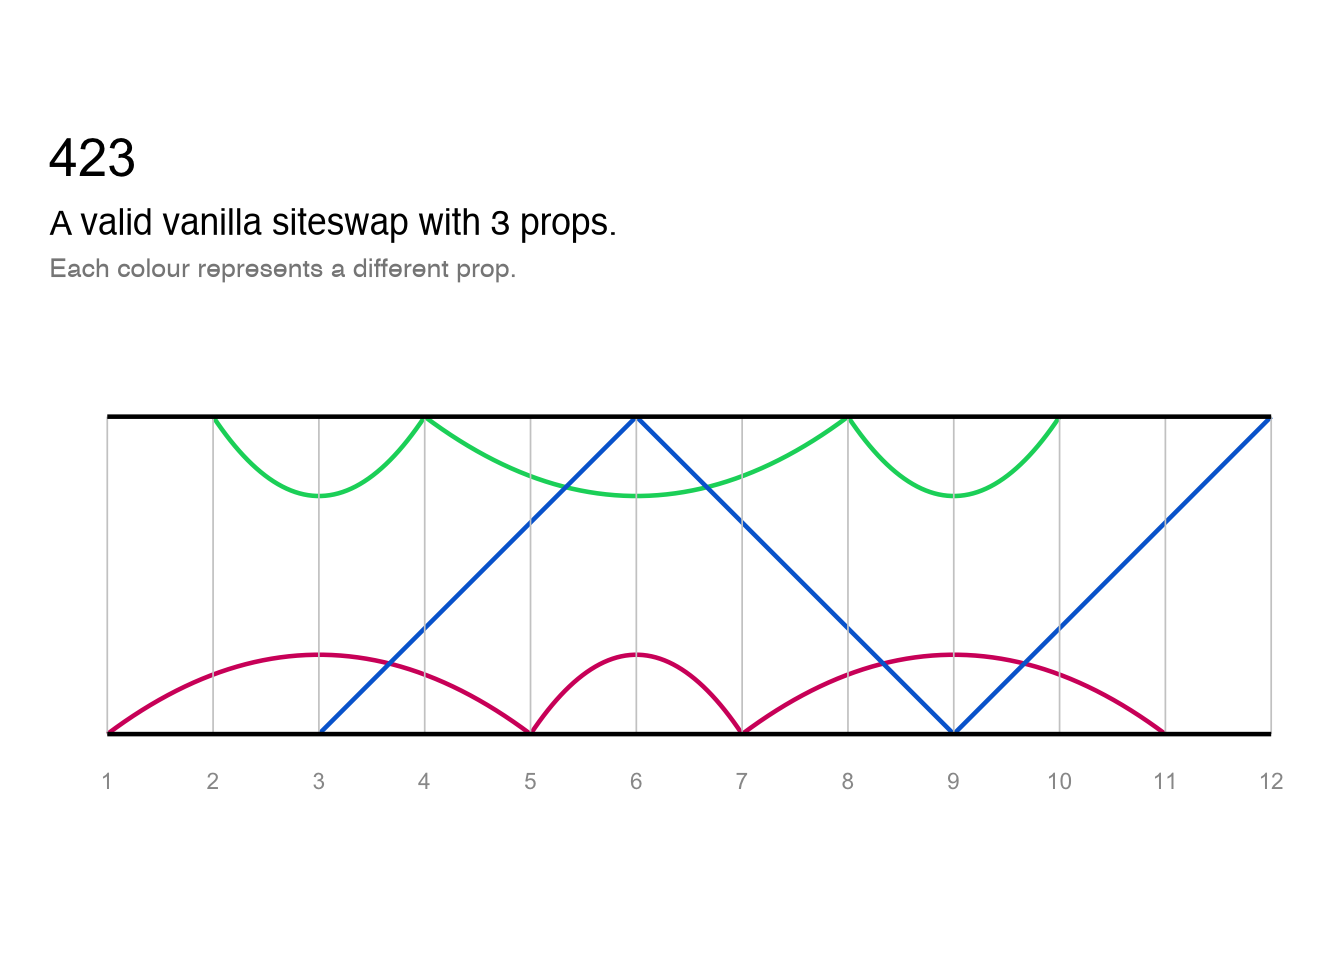
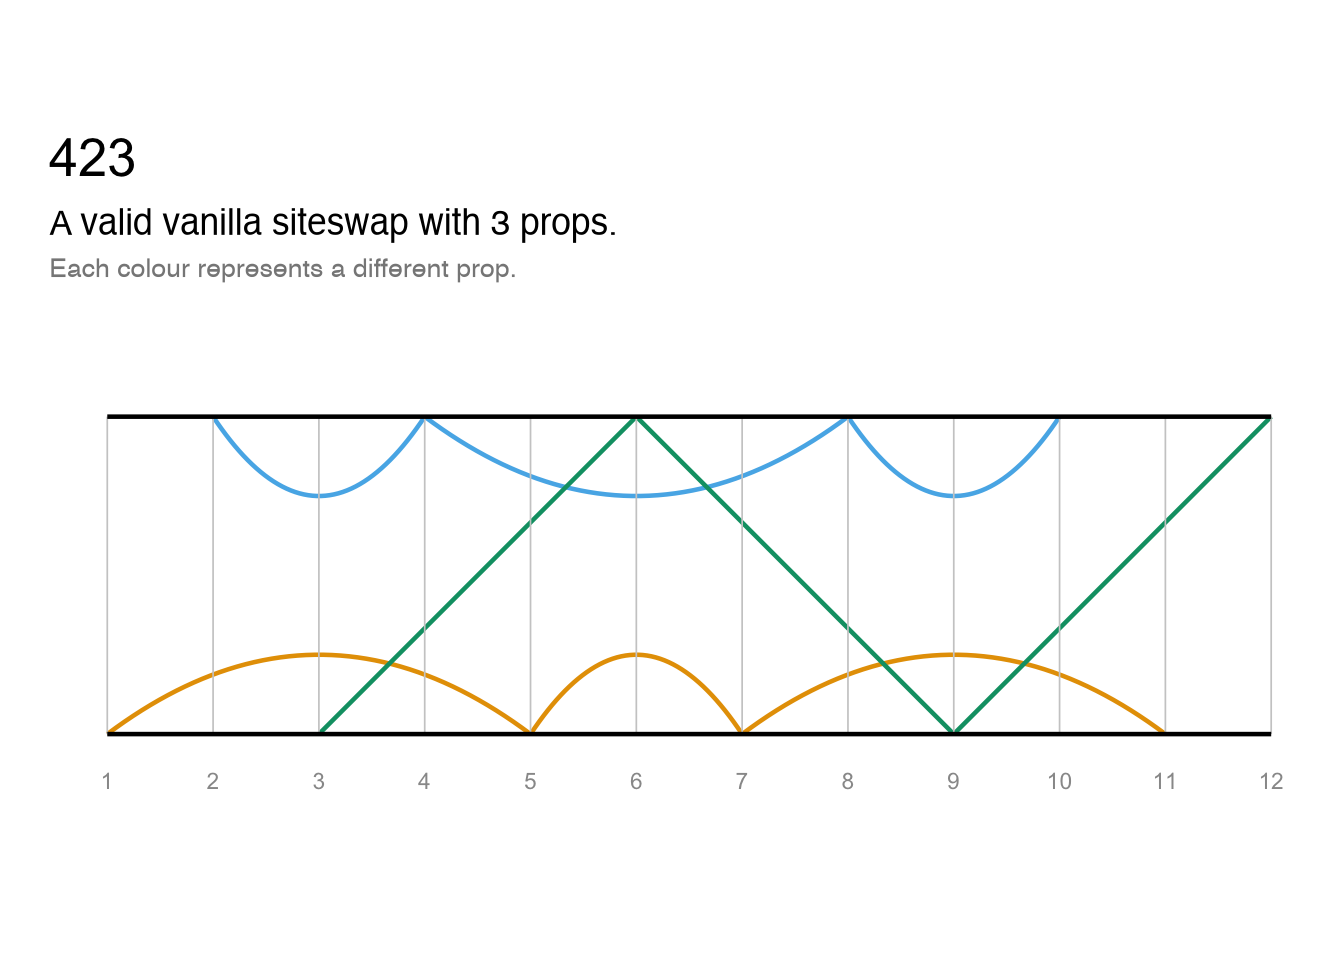
Deploying to gh-pages from @ EllaKaye/jugglr@668299e469104df9554b92e2565a156c42950b1f 🚀

diff --git a/index.html b/index.html
@@ -59,7 +59,7 @@
 <div class="section level2">
 <h2 id="installation">Installation<a class="anchor" aria-label="anchor" href="#installation"></a>
 </h2>
-<p>You can install the development version of jugglr from <a href="https://github.com/" class="external-link">GitHub</a> with:</p>
+<p>You can install the development version of jugglr from <a href="https://github.com/EllaKaye/jugglr" class="external-link">GitHub</a> with:</p>
 <div class="sourceCode" id="cb1"><pre class="downlit sourceCode r">
 <code class="sourceCode R"><span><span class="co"># install.packages("pak")</span></span>
 <span><span class="fu">pak</span><span class="fu">::</span><span class="fu"><a href="https://pak.r-lib.org/reference/pak.html" class="external-link">pak</a></span><span class="op">(</span><span class="st">"EllaKaye/jugglr"</span><span class="op">)</span></span></code></pre></div>
@@ -98,17 +98,10 @@
 </h3>
 <p>These functions take <code>Siteswap</code> objects as their argument and return ggplot2 plots, so can be further customised.</p>
 <div class="sourceCode" id="cb4"><pre class="downlit sourceCode r">
-<code class="sourceCode R"><span><span class="va">palette</span> <span class="op">&lt;-</span> <span class="fu"><a href="https://rdrr.io/r/base/c.html" class="external-link">c</a></span><span class="op">(</span><span class="st">"#D4006A"</span>, <span class="st">"#00D46A"</span>, <span class="st">"#006AD4"</span><span class="op">)</span></span>
-<span><span class="fu"><a href="reference/timeline.html">timeline</a></span><span class="op">(</span><span class="va">ss423</span><span class="op">)</span> <span class="op">+</span></span>
-<span>  <span class="fu">ggplot2</span><span class="fu">::</span><span class="fu"><a href="https://ggplot2.tidyverse.org/reference/scale_manual.html" class="external-link">scale_color_manual</a></span><span class="op">(</span>values <span class="op">=</span> <span class="va">palette</span><span class="op">)</span></span>
-<span><span class="co">#&gt; Scale for colour is already present.</span></span>
-<span><span class="co">#&gt; Adding another scale for colour, which will replace the existing scale.</span></span></code></pre></div>
+<code class="sourceCode R"><span><span class="fu"><a href="reference/timeline.html">timeline</a></span><span class="op">(</span><span class="va">ss423</span><span class="op">)</span></span></code></pre></div>
 <p><img src="reference/figures/README-unnamed-chunk-3-1.png" alt="" width="100%"></p>
 <div class="sourceCode" id="cb5"><pre class="downlit sourceCode r">
-<code class="sourceCode R"><span><span class="fu"><a href="reference/ladder.html">ladder</a></span><span class="op">(</span><span class="va">ss423</span><span class="op">)</span> <span class="op">+</span></span>
-<span>  <span class="fu">ggplot2</span><span class="fu">::</span><span class="fu"><a href="https://ggplot2.tidyverse.org/reference/scale_manual.html" class="external-link">scale_color_manual</a></span><span class="op">(</span>values <span class="op">=</span> <span class="va">palette</span><span class="op">)</span></span>
-<span><span class="co">#&gt; Scale for colour is already present.</span></span>
-<span><span class="co">#&gt; Adding another scale for colour, which will replace the existing scale.</span></span></code></pre></div>
+<code class="sourceCode R"><span><span class="fu"><a href="reference/ladder.html">ladder</a></span><span class="op">(</span><span class="va">ss423</span><span class="op">)</span></span></code></pre></div>
 <p><img src="reference/figures/README-unnamed-chunk-4-1.png" alt="" width="100%"></p>
 <p>These plots are also useful for understand why non-valid sequences are not jugglable. We can see, for example, where two props would need to be caught at the same time (which is not permissible in vanilla siteswap). Because each prop is shown in a different colour, we can see where balls are disappearing or needing suddenly to appear.</p>
 <div class="sourceCode" id="cb6"><pre class="downlit sourceCode r">
@@ -125,8 +118,12 @@
 <p>If called in Positron or RStudio, <code><a href="reference/animate.html">animate()</a></code> will show the animation in the Viewer pane, otherwise in the browser. If a <code>path</code> argument is supplied, the animation will be saved to that location instead. Note that it can take several seconds for the animation to render.</p>
 <p>For embedding in RMarkdown or quarto documents, there is a wrapper, <code><a href="reference/animate.html">animate_markdown()</a></code>, which calls <code><a href="https://rdrr.io/pkg/knitr/man/include_graphics.html" class="external-link">knitr::include_graphics()</a></code>, and display options can be set as chunk arguments (e.g. for the output below, <code>out.width="40%")</code>:</p>
 <div class="sourceCode" id="cb8"><pre class="downlit sourceCode r">
-<code class="sourceCode R"><span><span class="fu"><a href="reference/animate.html">animate_markdown</a></span><span class="op">(</span><span class="st">"423"</span>, <span class="st">"man/figures/423-animation.gif"</span>, colors <span class="op">=</span> <span class="va">palette</span><span class="op">)</span></span>
-<span><span class="co">#&gt; ✔ Animation saved to: 'man/figures/423-animation.gif'</span></span></code></pre></div>
+<code class="sourceCode R"><span><span class="fu"><a href="reference/animate.html">animate_markdown</a></span><span class="op">(</span></span>
+<span>  <span class="st">"423"</span>, </span>
+<span>  path <span class="op">=</span> <span class="st">"man/figures/423-animation.gif"</span>, </span>
+<span>  colors <span class="op">=</span> <span class="fu"><a href="https://rdrr.io/r/base/c.html" class="external-link">c</a></span><span class="op">(</span><span class="st">"#E69F00"</span>, <span class="st">"#56B4E9"</span>, <span class="st">"#009E73"</span><span class="op">)</span></span>
+<span>  <span class="op">)</span></span>
+<span><span class="co">#&gt; ✔ Animation saved to: '</span></span></code></pre></div>
 <p><img src="reference/figures/423-animation.gif" alt="" width="40%"></p>
 </div>
 </div>

diff --git a/index.md b/index.md
@@ -11,7 +11,7 @@ passing siteswap.
 ## Installation
 
 You can install the development version of jugglr from
-[GitHub](https://github.com/) with:
+[GitHub](https://github.com/EllaKaye/jugglr) with:
 
 ``` r
 
@@ -61,21 +61,14 @@ ggplot2 plots, so can be further customised.
 
 ``` r
 
-palette <- c("#D4006A", "#00D46A", "#006AD4")
-timeline(ss423) +
-  ggplot2::scale_color_manual(values = palette)
-#> Scale for colour is already present.
-#> Adding another scale for colour, which will replace the existing scale.
+timeline(ss423)
 ```
 
 ![](reference/figures/README-unnamed-chunk-3-1.png)
 
 ``` r
 
-ladder(ss423) +
-  ggplot2::scale_color_manual(values = palette)
-#> Scale for colour is already present.
-#> Adding another scale for colour, which will replace the existing scale.
+ladder(ss423)
 ```
 
 ![](reference/figures/README-unnamed-chunk-4-1.png)
@@ -123,8 +116,12 @@ below, `out.width="40%")`:
 
 ``` r
 
-animate_markdown("423", "man/figures/423-animation.gif", colors = palette)
-#> ✔ Animation saved to: 'man/figures/423-animation.gif'
+animate_markdown(
+  "423", 
+  path = "man/figures/423-animation.gif", 
+  colors = c("#E69F00", "#56B4E9", "#009E73")
+  )
+#> ✔ Animation saved to: '
 ```
 
 ![](reference/figures/423-animation.gif)